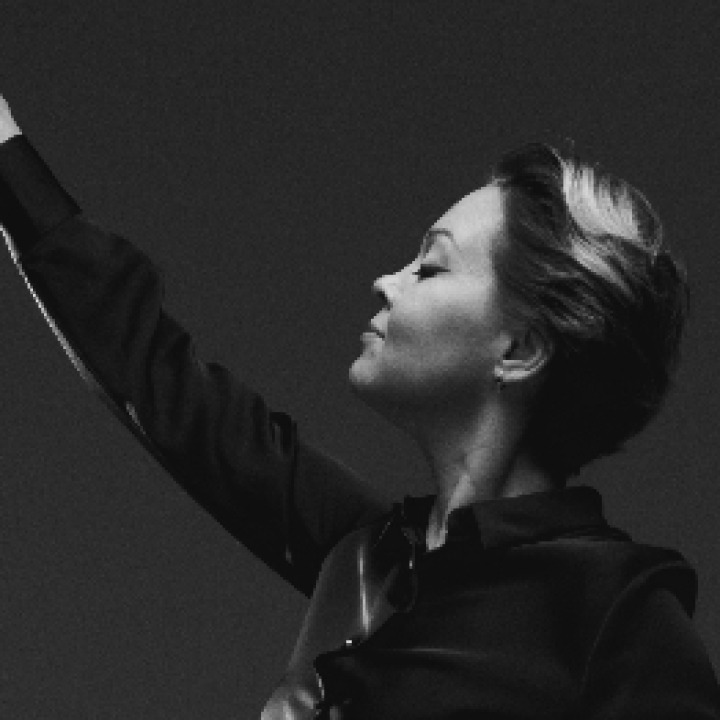
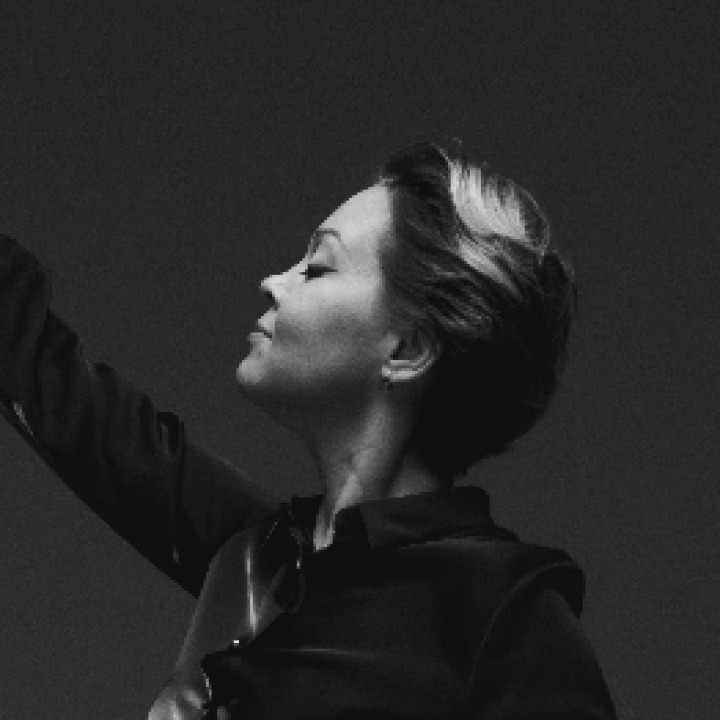
Square the tutor modal photo and centre four off-kilter crops
Show the portrait as a square in Подробнее so the corners the circle
was hiding come back; the files were already square, only the mask was
round.

Recentre Маргарита, Ольга Чистякова and Татьяна Лебедева, whose faces
sat right of the frame, and Фарух, whose head sat left of a half-empty
black frame. Ольга needed a tighter crop first, as hers spanned almost
the full source photo and had no room left to slide.

Opening the modal for a tutor with no portrait read .src off a missing
img and threw; those four now fall back to the gradient tile.

Claude-Session: https://claude.ai/code/session_01JkVaYtX89zu62gJtTaSHhH

diff --git a/script.js b/script.js
@@ -228,13 +228,19 @@ document.addEventListener('DOMContentLoaded', () => {
         const avatarImg = avatar.querySelector('img');
         let modalImg = modalPhoto.querySelector('img');
 
-        if (!modalImg) {
-            modalImg = document.createElement('img');
-            modalImg.alt = '';
-            modalPhoto.appendChild(modalImg);
+        // four tutors have no portrait on the source site; they keep the
+        // plain gradient tile instead
+        if (avatarImg) {
+            if (!modalImg) {
+                modalImg = document.createElement('img');
+                modalImg.alt = '';
+                modalPhoto.appendChild(modalImg);
+            }
+            modalImg.src = avatarImg.src;
+        } else if (modalImg) {
+            modalImg.remove();
         }
-        modalImg.src = avatarImg.src;
-        modalPhoto.setAttribute('data-i', card.getAttribute('data-i'));
+        modalPhoto.classList.toggle('no-photo', !avatarImg);
         modal.querySelector('.tutor-modal-name').textContent =
             card.querySelector('.tutor-name').textContent;
         modal.querySelector('.tutor-modal-role').textContent =

diff --git a/classes.html b/classes.html
@@ -7,7 +7,7 @@
     <link rel="preconnect" href="https://fonts.googleapis.com">
     <link rel="preconnect" href="https://fonts.gstatic.com" crossorigin>
     <link href="https://fonts.googleapis.com/css2?family=Jost:wght@300;400;500;600&family=Marck+Script&family=PT+Serif:ital,wght@0,400;0,700;1,400;1,700&family=Playfair+Display:wght@400;500;600;700;800&display=swap" rel="stylesheet">
-    <link rel="stylesheet" href="styles.css?v=29">
+    <link rel="stylesheet" href="styles.css?v=30">
 </head>
 <body>
     <nav class="navbar">
@@ -222,6 +222,6 @@
         </div>
     </section>
 
-    <script src="script.js?v=29"></script>
+    <script src="script.js?v=30"></script>
 </body>
 </html>

diff --git a/interior.html b/interior.html
@@ -7,7 +7,7 @@
     <link rel="preconnect" href="https://fonts.googleapis.com">
     <link rel="preconnect" href="https://fonts.gstatic.com" crossorigin>
     <link href="https://fonts.googleapis.com/css2?family=Jost:wght@300;400;500;600&family=Marck+Script&family=PT+Serif:ital,wght@0,400;0,700;1,400;1,700&family=Playfair+Display:wght@400;500;600;700;800&display=swap" rel="stylesheet">
-    <link rel="stylesheet" href="styles.css?v=29">
+    <link rel="stylesheet" href="styles.css?v=30">
 </head>
 <body>
     <nav class="navbar">
@@ -109,6 +109,6 @@
         </div>
     </section>
 
-    <script src="script.js?v=29"></script>
+    <script src="script.js?v=30"></script>
 </body>
 </html>

diff --git a/rent.html b/rent.html
@@ -7,7 +7,7 @@
     <link rel="preconnect" href="https://fonts.googleapis.com">
     <link rel="preconnect" href="https://fonts.gstatic.com" crossorigin>
     <link href="https://fonts.googleapis.com/css2?family=Jost:wght@300;400;500;600&family=Marck+Script&family=PT+Serif:ital,wght@0,400;0,700;1,400;1,700&family=Playfair+Display:wght@400;500;600;700;800&display=swap" rel="stylesheet">
-    <link rel="stylesheet" href="styles.css?v=29">
+    <link rel="stylesheet" href="styles.css?v=30">
 </head>
 <body>
     <nav class="navbar">
@@ -103,6 +103,6 @@
         </div>
     </section>
 
-    <script src="script.js?v=29"></script>
+    <script src="script.js?v=30"></script>
 </body>
 </html>

diff --git a/booking.html b/booking.html
@@ -7,7 +7,7 @@
     <link rel="preconnect" href="https://fonts.googleapis.com">
     <link rel="preconnect" href="https://fonts.gstatic.com" crossorigin>
     <link href="https://fonts.googleapis.com/css2?family=Jost:wght@300;400;500;600&family=Marck+Script&family=PT+Serif:ital,wght@0,400;0,700;1,400;1,700&family=Playfair+Display:wght@400;500;600;700;800&display=swap" rel="stylesheet">
-    <link rel="stylesheet" href="styles.css?v=29">
+    <link rel="stylesheet" href="styles.css?v=30">
 </head>
 <body>
     <nav class="navbar">
@@ -93,6 +93,6 @@
         </div>
     </section>
 
-    <script src="script.js?v=29"></script>
+    <script src="script.js?v=30"></script>
 </body>
 </html>

diff --git a/contacts.html b/contacts.html
@@ -7,7 +7,7 @@
     <link rel="preconnect" href="https://fonts.googleapis.com">
     <link rel="preconnect" href="https://fonts.gstatic.com" crossorigin>
     <link href="https://fonts.googleapis.com/css2?family=Jost:wght@300;400;500;600&family=Marck+Script&family=PT+Serif:ital,wght@0,400;0,700;1,400;1,700&family=Playfair+Display:wght@400;500;600;700;800&display=swap" rel="stylesheet">
-    <link rel="stylesheet" href="styles.css?v=29">
+    <link rel="stylesheet" href="styles.css?v=30">
 </head>
 <body>
     <nav class="navbar">
@@ -91,6 +91,6 @@
         </div>
     </section>
 
-    <script src="script.js?v=29"></script>
+    <script src="script.js?v=30"></script>
 </body>
 </html>

diff --git a/directions.html b/directions.html
@@ -7,7 +7,7 @@
     <link rel="preconnect" href="https://fonts.googleapis.com">
     <link rel="preconnect" href="https://fonts.gstatic.com" crossorigin>
     <link href="https://fonts.googleapis.com/css2?family=Jost:wght@300;400;500;600&family=Marck+Script&family=PT+Serif:ital,wght@0,400;0,700;1,400;1,700&family=Playfair+Display:wght@400;500;600;700;800&display=swap" rel="stylesheet">
-    <link rel="stylesheet" href="styles.css?v=29">
+    <link rel="stylesheet" href="styles.css?v=30">
 </head>
 <body>
     <nav class="navbar">
@@ -67,6 +67,6 @@
         </div>
     </section>
 
-    <script src="script.js?v=29"></script>
+    <script src="script.js?v=30"></script>
 </body>
 </html>

diff --git a/events.html b/events.html
@@ -7,7 +7,7 @@
     <link rel="preconnect" href="https://fonts.googleapis.com">
     <link rel="preconnect" href="https://fonts.gstatic.com" crossorigin>
     <link href="https://fonts.googleapis.com/css2?family=Jost:wght@300;400;500;600&family=Marck+Script&family=PT+Serif:ital,wght@0,400;0,700;1,400;1,700&family=Playfair+Display:wght@400;500;600;700;800&display=swap" rel="stylesheet">
-    <link rel="stylesheet" href="styles.css?v=29">
+    <link rel="stylesheet" href="styles.css?v=30">
 </head>
 <body>
     <nav class="navbar">
@@ -98,6 +98,6 @@
         </div>
     </section>
 
-    <script src="script.js?v=29"></script>
+    <script src="script.js?v=30"></script>
 </body>
 </html>

diff --git a/tutors.html b/tutors.html
@@ -7,7 +7,7 @@
     <link rel="preconnect" href="https://fonts.googleapis.com">
     <link rel="preconnect" href="https://fonts.gstatic.com" crossorigin>
     <link href="https://fonts.googleapis.com/css2?family=Jost:wght@300;400;500;600&family=Marck+Script&family=PT+Serif:ital,wght@0,400;0,700;1,400;1,700&family=Playfair+Display:wght@400;500;600;700;800&display=swap" rel="stylesheet">
-    <link rel="stylesheet" href="styles.css?v=29">
+    <link rel="stylesheet" href="styles.css?v=30">
 </head>
 <body>
     <nav class="navbar">
@@ -275,6 +275,6 @@
         </div>
     </div>
 
-    <script src="script.js?v=29"></script>
+    <script src="script.js?v=30"></script>
 </body>
 </html>

diff --git a/index.html b/index.html
@@ -7,7 +7,7 @@
     <link rel="preconnect" href="https://fonts.googleapis.com">
     <link rel="preconnect" href="https://fonts.gstatic.com" crossorigin>
     <link href="https://fonts.googleapis.com/css2?family=Jost:wght@300;400;500;600&family=Marck+Script&family=PT+Serif:ital,wght@0,400;0,700;1,400;1,700&family=Playfair+Display:wght@400;500;600;700;800&display=swap" rel="stylesheet">
-    <link rel="stylesheet" href="styles.css?v=29">
+    <link rel="stylesheet" href="styles.css?v=30">
 </head>
 <body>
     <nav class="navbar">
@@ -172,6 +172,6 @@
         </svg>
     </a>
 
-    <script src="script.js?v=29"></script>
+    <script src="script.js?v=30"></script>
 </body>
 </html>

diff --git a/styles.css b/styles.css
@@ -1539,7 +1539,7 @@ footer {
 .tutor-modal-photo {
     width: 100%;
     aspect-ratio: 1 / 1;
-    border-radius: 50%;
+    border-radius: 2px;
     overflow: hidden;
     display: flex;
     align-items: center;
@@ -1552,6 +1552,18 @@ footer {
     height: 100%;
     object-fit: cover;
     object-position: center;
+}
+
+.tutor-modal-photo.no-photo {
+    background: linear-gradient(155deg, var(--cream) 0%, var(--primary-red) 55%, var(--wine-dark) 100%);
+}
+
+.tutor-modal-photo.no-photo::after {
+    content: '';
+    width: 46%;
+    height: 46%;
+    border-radius: 50%;
+    border: 2px solid rgba(247, 241, 231, 0.55);
 }
 
 
